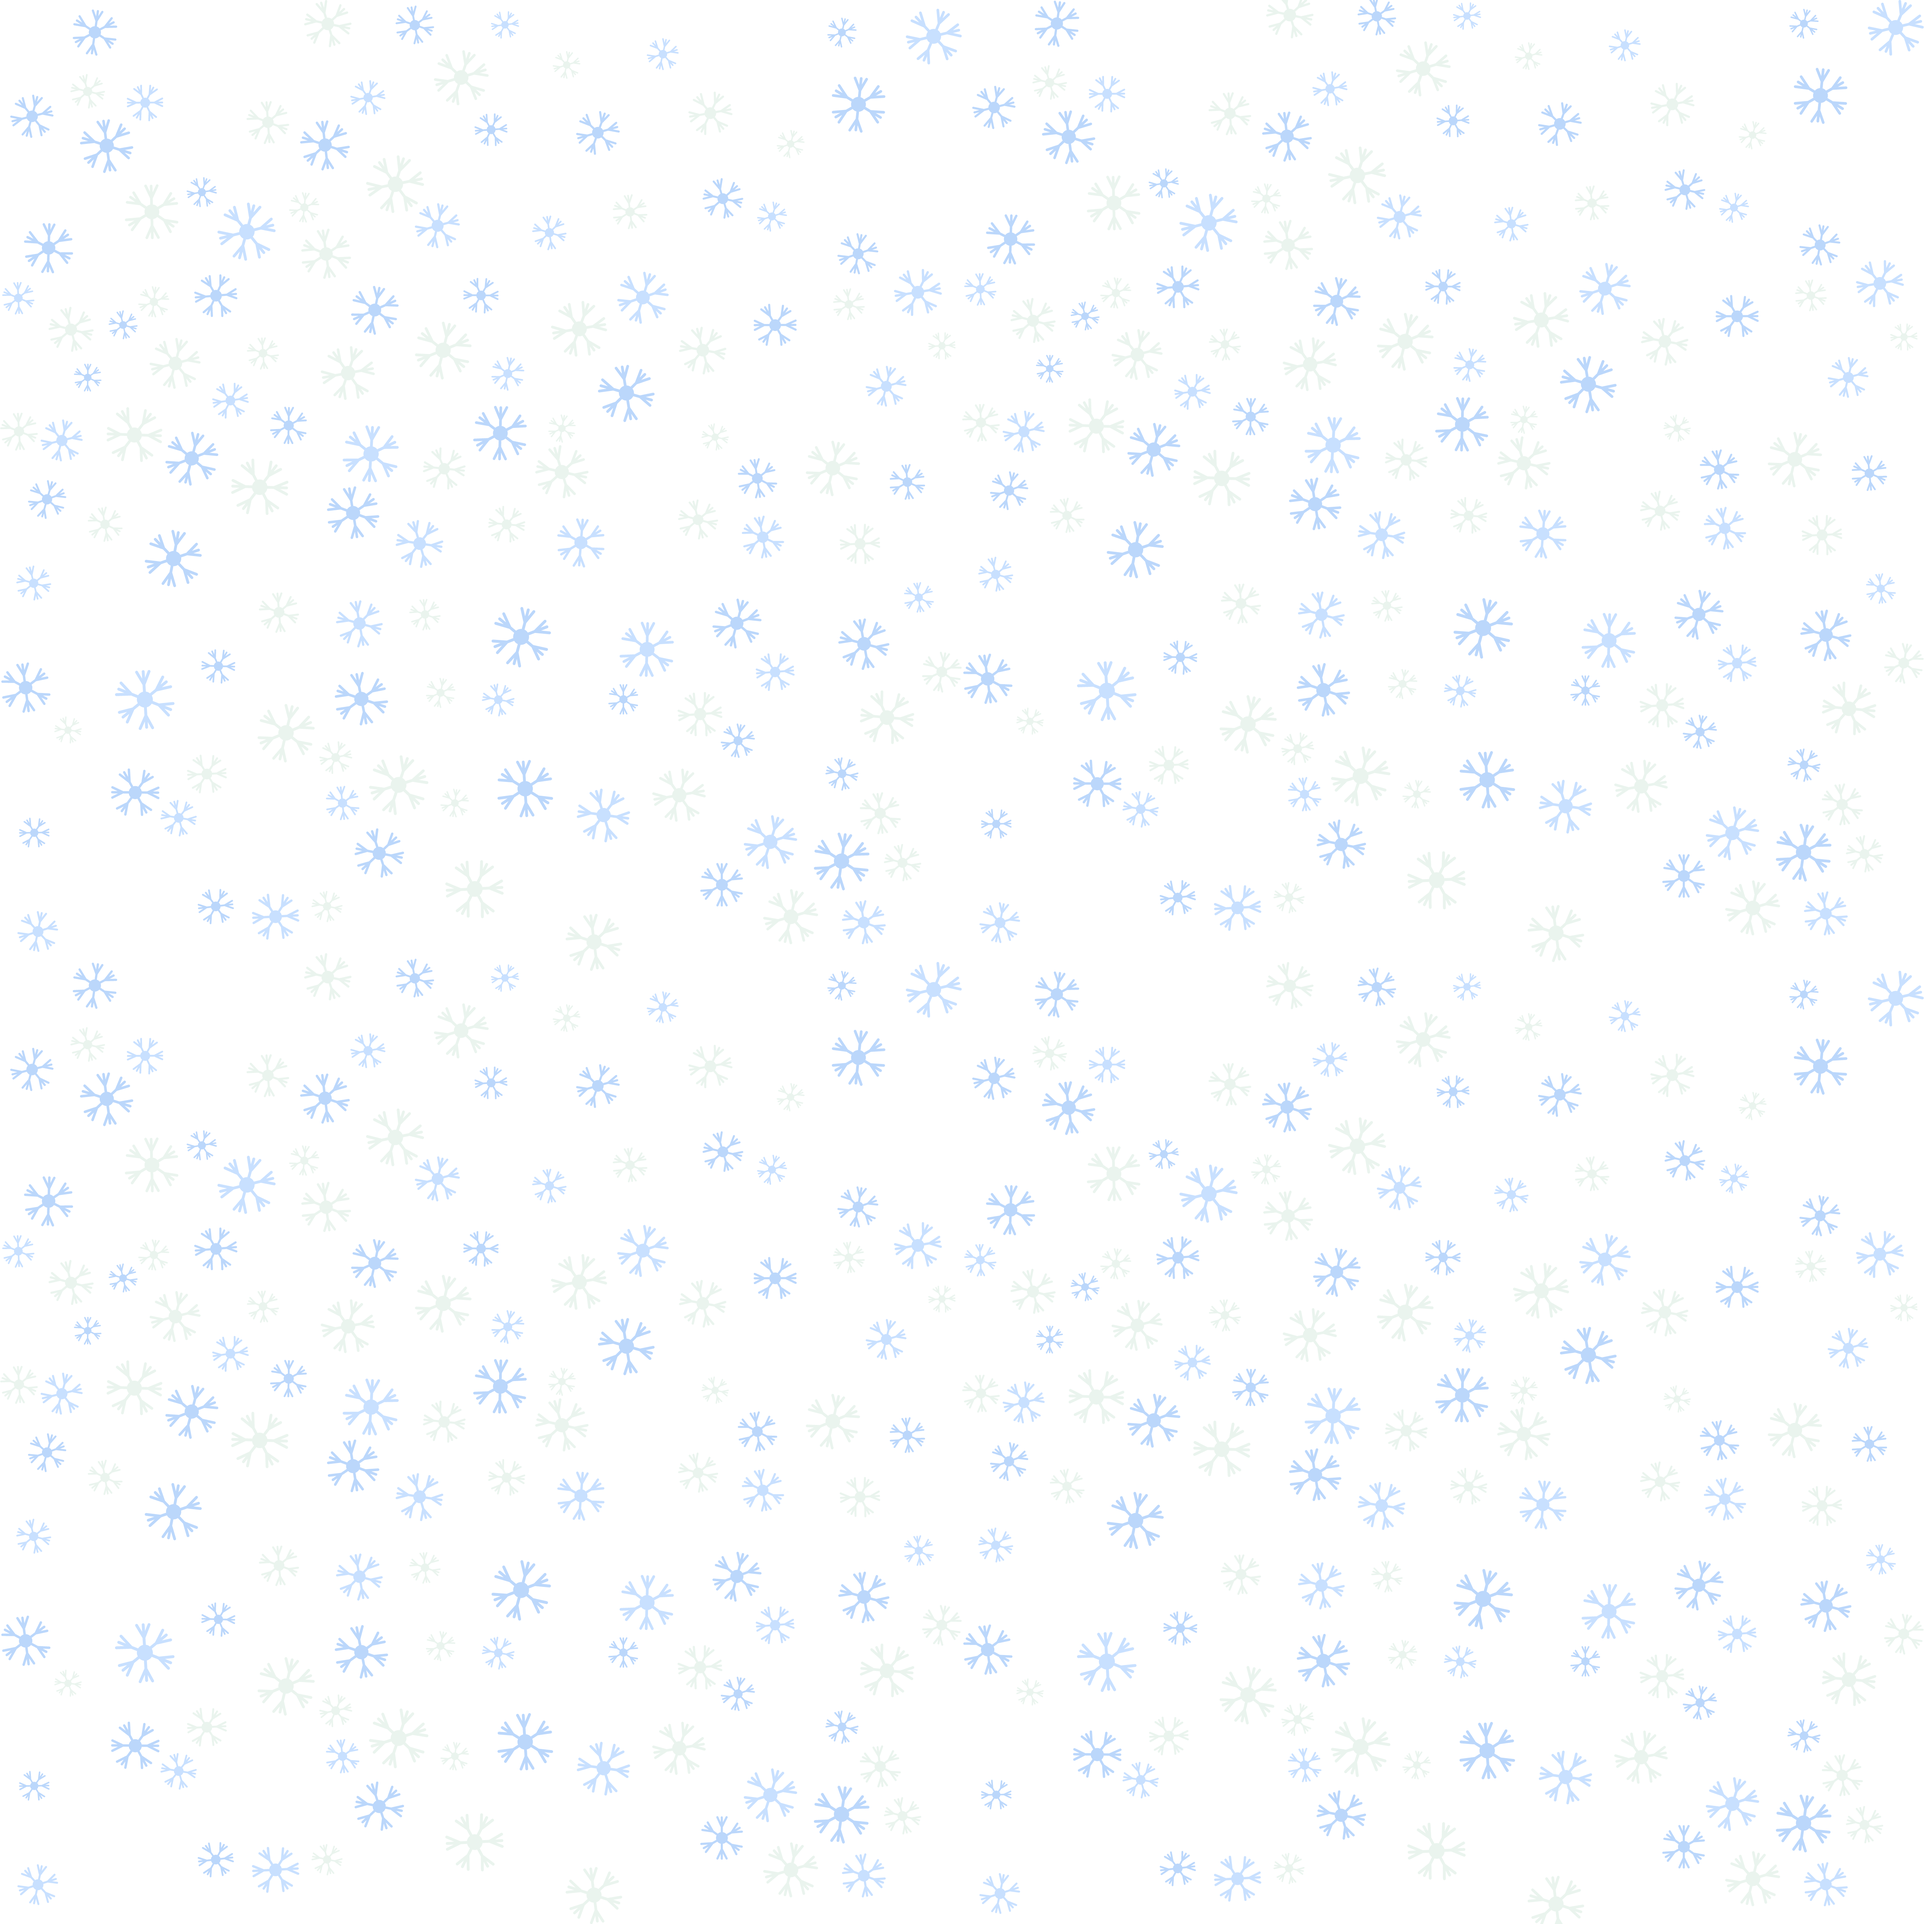
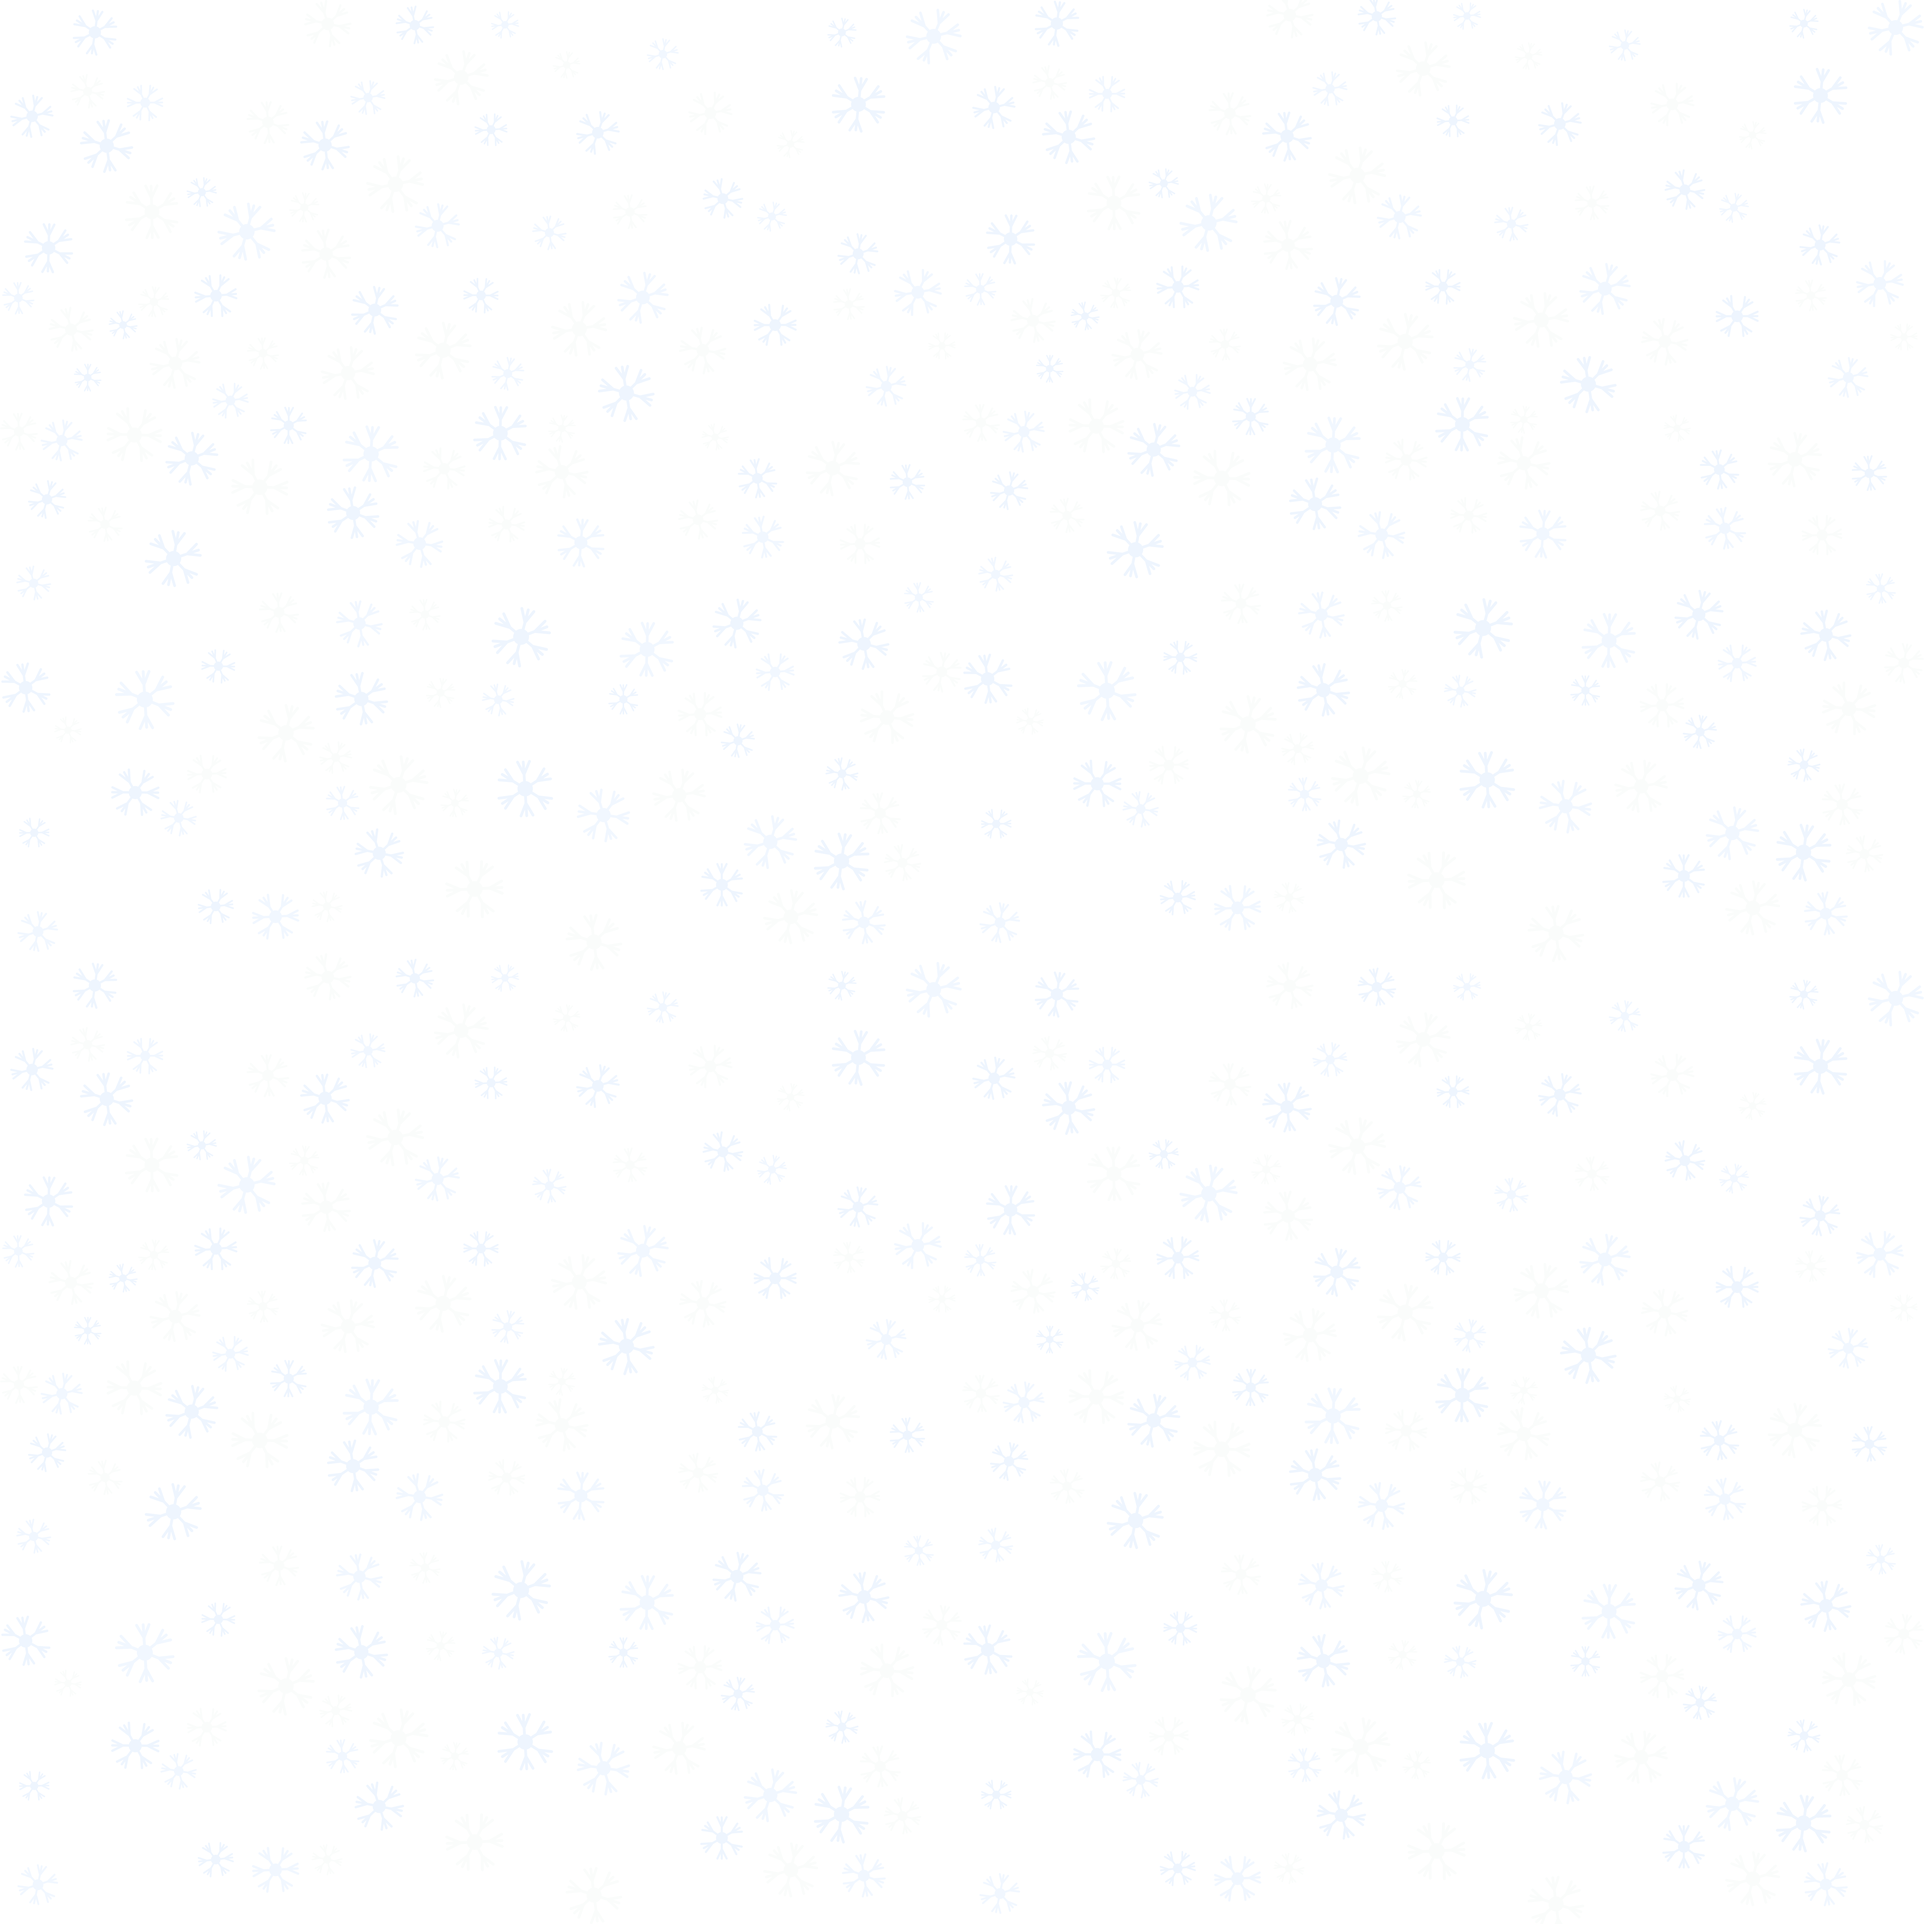
WIP

diff --git a/packages/client/src/components/Lobby.tsx b/packages/client/src/components/Lobby.tsx
@@ -4,14 +4,12 @@ import {
 } from '@material-ui/core';
 import clsx from 'clsx';
 import { useHistory } from 'react-router-dom';
-import ChatRounded from '@material-ui/icons/ChatRounded';
 import socket from '../services/socket';
 import Chat from './Chat';
 import ArtistList from './ArtistList';
 import RoomName from './RoomName';
 import ActivityCarousel from './ActivityCarousel';
 import { useAppContext } from './AppContextProvider';
-import GameTabs from './GameTabs';
 
 const MAIN_SIZE = 'min(50vw, 78vh)';
 const WRAPPED_MAIN_SIZE = 'min(80vw, 50vh)';
@@ -21,10 +19,18 @@ const useStyles = makeStyles({
     display: 'flex',
     flexDirection: 'column',
     justifyContent: 'center',
+    alignItems: 'center',
+  },
+  content: {
+    display: 'flex',
+    flexDirection: 'column',
+    justifyContent: 'center',
+    alignItems: 'center',
     gap: '1rem',
   },
   roomName: {
     maxWidth: '80vw',
+    alignSelf: 'flex-start',
   },
   panelContainer: {
     display: 'flex',
@@ -50,11 +56,12 @@ const useStyles = makeStyles({
     padding: '1rem',
     overflowX: 'auto',
   },
-  gameTabs: {
+  chat: {
     height: MAIN_SIZE,
     width: '20rem',
+    padding: '1rem',
   },
-  wrappedGameTabs: {
+  wrappedChat: {
     width: WRAPPED_MAIN_SIZE,
     height: '15rem',
   },
@@ -100,24 +107,25 @@ const Lobby: React.FC<LobbyProps> = ({ className, ...rest }) => {
 
   return (
     <Box className={clsx(classes.root, className)} {...rest}>
-      <RoomName className={classes.roomName} />
-      <Box className={clsx(classes.panelContainer, shouldWrap && classes.wrappedPanelContainer)}>
-        <Box className={clsx(classes.main, shouldWrap && classes.wrappedMain)}>
-          <ArtistList className={classes.artistList} component={Paper} />
-          <Paper className={classes.activityContentContainer}>
-            <ActivityCarousel className={classes.activityCarousel} />
-            {state.isHost && (
-              <Button color="primary" variant="contained" onClick={handlePlay}>
-                Play
-              </Button>
-            )}
-          </Paper>
+      <Box className={classes.content}>
+        <RoomName className={classes.roomName} />
+        <Box className={clsx(classes.panelContainer, shouldWrap && classes.wrappedPanelContainer)}>
+          <Box className={clsx(classes.main, shouldWrap && classes.wrappedMain)}>
+            <ArtistList className={classes.artistList} component={Paper} />
+            <Paper className={classes.activityContentContainer}>
+              <ActivityCarousel className={classes.activityCarousel} />
+              {state.isHost && (
+                <Button color="primary" variant="contained" onClick={handlePlay}>
+                  Play
+                </Button>
+              )}
+            </Paper>
+          </Box>
+          <Chat
+            className={clsx(classes.chat, shouldWrap && classes.wrappedChat)}
+            component={Paper}
+          />
         </Box>
-        <GameTabs
-          className={clsx(classes.gameTabs, shouldWrap && classes.wrappedGameTabs)}
-          component={Paper}
-          items={[{ label: 'Chat', icon: ChatRounded, content: Chat }]}
-        />
       </Box>
     </Box>
   );

diff --git a/packages/client/src/components/Home.tsx b/packages/client/src/components/Home.tsx
@@ -1,9 +1,6 @@
 import React from 'react';
 import {
-  Box,
-  makeStyles,
-  BoxProps,
-  Paper,
+  Box, makeStyles, BoxProps, Paper, useMediaQuery,
 } from '@material-ui/core';
 import clsx from 'clsx';
 import Logo from '../assets/logo.svg';
@@ -13,22 +10,48 @@ import Login from './Login';
 
 const useStyles = makeStyles({
   root: {
+    flex: 1,
     display: 'flex',
     flexDirection: 'row',
     justifyContent: 'center',
-    alignItems: 'center',
-    gap: '1rem',
-  },
-  main: {
-    display: 'flex',
-    flexDirection: 'column',
-    justifyContent: 'stretch',
-    alignItems: 'center',
+    alignItems: 'stretch',
     gap: '1rem',
   },
   login: {
     width: '20rem',
     padding: '2rem',
+  },
+  logo: {
+    width: '100%',
+  },
+  logoContainer: {
+    flex: 1,
+    display: 'flex',
+    flexDirection: 'column',
+    justifyContent: 'center',
+    alignItems: 'center',
+  },
+  content: {
+    display: 'flex',
+    flexDirection: 'column',
+    justifyContent: 'center',
+    alignItems: 'center',
+  },
+  art: {
+    flex: 1,
+    display: 'flex',
+    flexDirection: 'row',
+    justifyContent: 'center',
+    alignItems: 'center',
+  },
+  character: {
+    width: 'min(20vw, 40vh)',
+  },
+  hidden: {
+    display: 'none',
+  },
+  spacer: {
+    flex: 1,
   },
 });
 
@@ -36,15 +59,23 @@ export type HomeProps = BoxProps;
 
 const Home: React.FC<HomeProps> = ({ className, ...rest }) => {
   const classes = useStyles();
+  const shouldWrap = useMediaQuery('(max-aspect-ratio: 1/1)');
 
   return (
     <Box className={clsx(classes.root, className)} {...rest}>
-      <img src={Yeti} alt="Yeti" />
-      <Box className={classes.main}>
-        <img src={Logo} alt="Logo" />
-        <Login className={classes.login} component={Paper} />
+      <Box className={clsx(classes.art, shouldWrap && classes.hidden)}>
+        <img className={classes.character} src={Yeti} alt="yeti" />
       </Box>
-      <img src={Tree} alt="Tree" />
+      <Box className={classes.content}>
+        <Box className={classes.logoContainer}>
+          <img className={classes.logo} src={Logo} alt="logo" />
+        </Box>
+        <Login className={classes.login} component={Paper} />
+        <Box className={classes.spacer} />
+      </Box>
+      <Box className={clsx(classes.art, shouldWrap && classes.hidden)}>
+        <img className={classes.character} src={Tree} alt="tree" />
+      </Box>
     </Box>
   );
 };

diff --git a/packages/client/src/themes/playful.ts b/packages/client/src/themes/playful.ts
@@ -1,8 +1,56 @@
 import { createTheme, responsiveFontSizes } from '@material-ui/core';
+import { Shadows } from '@material-ui/core/styles/shadows';
 
 const playful = responsiveFontSizes(
   createTheme({
-
+    palette: {
+      primary: {
+        main: '#1e88e5',
+      },
+      secondary: {
+        main: '#43a047',
+      },
+      error: {
+        main: '#e53935',
+      },
+    },
+    shape: {
+      borderRadius: 12,
+    },
+    typography: {
+      fontFamily: 'Varela Round',
+      button: {
+        fontWeight: 'bold',
+      },
+    },
+    shadows: Array(25).fill('none') as Shadows,
+    overrides: {
+      MuiPaper: {
+        root: {
+          outline: '0.2rem solid #eeeeee',
+        },
+      },
+      MuiButton: {
+        containedPrimary: {
+          boxShadow: '0 0.3rem #1565c0',
+          '&:hover': {
+            boxShadow: '0 0.2rem #0d47a1',
+          },
+          '&:focus': {
+            boxShadow: '0 0.2rem #1565c0',
+          },
+        },
+        containedSecondary: {
+          boxShadow: '0 0.3rem #2e7d32',
+          '&:hover': {
+            boxShadow: '0 0.2rem #1b5e20',
+          },
+          '&:focus': {
+            boxShadow: '0 0.2rem #2e7d32',
+          },
+        },
+      },
+    },
   }),
 );
 

diff --git a/packages/client/src/components/GameTabs.tsx b/packages/client/src/components/GameTabs.tsx
@@ -12,7 +12,7 @@ const useStyles = makeStyles((theme) => ({
     display: 'flex',
     flexDirection: 'row',
     justifyContent: 'space-between',
-    borderBottom: `0.1rem solid ${theme.palette.divider}`,
+    borderBottom: '0.2rem solid #eeeeee',
   },
   tab: {
     flex: 1,
@@ -21,8 +21,8 @@ const useStyles = makeStyles((theme) => ({
     flexDirection: 'row',
     justifyContent: 'center',
     alignItems: 'center',
-    borderBottom: '0.15rem solid transparent',
-    marginBottom: '-0.12rem',
+    borderBottom: '0.2rem solid transparent',
+    marginBottom: '-0.2rem',
   },
   active: {
     borderBottomColor: theme.palette.primary.main,
@@ -32,11 +32,11 @@ const useStyles = makeStyles((theme) => ({
     flexDirection: 'column',
     justifyContent: 'stretch',
     flex: 1,
-    padding: '1rem',
     minHeight: '0',
   },
   content: {
     flex: 1,
+    padding: '1rem',
     overflowY: 'auto',
   },
   hidden: {

diff --git a/packages/client/src/components/App.tsx b/packages/client/src/components/App.tsx
@@ -7,17 +7,18 @@ import Game from './Game';
 import Lobby from './Lobby';
 import socket from '../services/socket';
 import { useAppContext } from './AppContextProvider';
-// import BackgroundImage from '../assets/snowflakes.png';
+import BackgroundImage from '../assets/snowflakes.png';
 
 const useStyles = makeStyles({
   root: {
     height: '100vh',
     display: 'flex',
+    flexDirection: 'column',
     justifyContent: 'center',
-    alignItems: 'center',
-    // backgroundImage: `url(${BackgroundImage})`,
-    // backgroundRepeat: 'repeat',
-    // backgroundSize: '100rem',
+    alignItems: 'stretch',
+    backgroundImage: `url(${BackgroundImage})`,
+    backgroundRepeat: 'repeat',
+    backgroundSize: '100rem',
   },
 });
 

diff --git a/packages/client/src/components/RoomName.tsx b/packages/client/src/components/RoomName.tsx
@@ -18,6 +18,9 @@ const useStyles = makeStyles({
     alignItems: 'center',
     gap: '1rem',
   },
+  name: {
+    fontWeight: 'bold',
+  },
 });
 
 export type RoomNameProps = BoxProps;
@@ -34,7 +37,7 @@ const RoomName: React.FC<RoomNameProps> = ({ className, ...rest }) => {
 
   return (
     <Box className={clsx(classes.root, className)} {...rest}>
-      <Typography noWrap variant="h2">{state.room}</Typography>
+      <Typography noWrap variant="h2" className={classes.name}>{state.room}</Typography>
       <IconButton size="medium" onClick={handleRoomCopy}>
         {copied ? <CheckRounded /> : <FileCopyRounded />}
       </IconButton>

diff --git a/packages/client/src/components/Rules.tsx b/packages/client/src/components/Rules.tsx
@@ -11,6 +11,9 @@ const useStyles = makeStyles({
     justifyContent: 'flex-start',
     gap: '1rem',
   },
+  header: {
+    fontWeight: 'bold',
+  },
 });
 
 export type RulesProps = BoxProps;
@@ -19,7 +22,7 @@ const Rules: React.FC<BoxProps> = ({ className, ...rest }) => {
   const classes = useStyles();
   return (
     <Box className={clsx(classes.root, className)} {...rest}>
-      <Typography variant="h5" color="textPrimary">
+      <Typography variant="h5" color="textPrimary" className={classes.header}>
         Welcome to ArtFair!
       </Typography>
       <Typography variant="body1" color="textSecondary">

diff --git a/packages/client/src/index.html b/packages/client/src/index.html
@@ -7,6 +7,9 @@
   <meta name="viewport" content="width=device-width, initial-scale=1.0">
   <meta name="description" content="an online multiplayer collaborative drawing experience" />
   <link rel="icon" href="assets/favicon.ico" />
+  <link rel="preconnect" href="https://fonts.googleapis.com">
+  <link rel="preconnect" href="https://fonts.gstatic.com" crossorigin>
+  <link href="https://fonts.googleapis.com/css2?family=Varela+Round&display=swap" rel="stylesheet">
   <title>ArtFair</title>
 </head>
 

diff --git a/packages/client/src/components/Login.tsx b/packages/client/src/components/Login.tsx
@@ -150,7 +150,7 @@ const Login: React.FC<LoginProps> = ({ className, ...rest }) => {
         onClick={handleJoinRoomAttempt}
         disabled={textFieldsAreEmpty}
         variant="contained"
-        color="primary"
+        color="secondary"
         size="large"
       >
         Join Room

diff --git a/packages/client/src/components/ChatLine.tsx b/packages/client/src/components/ChatLine.tsx
@@ -18,7 +18,7 @@ const useStyles = makeStyles({
     display: 'inline',
   },
   announcement: {
-    opacity: 0.8,
+    opacity: 0.4,
     fontWeight: 'lighter',
     fontStyle: 'italic',
   },

diff --git a/packages/client/src/components/Game.tsx b/packages/client/src/components/Game.tsx
@@ -60,7 +60,7 @@ const useStyles = makeStyles({
   wrappedGameTabs: {
     width: WRAPPED_CANVAS_SIZE,
     height: '15rem',
-    alignSelf: 'flex-start',
+    alignSelf: 'auto',
   },
 });
 

diff --git a/packages/client/src/components/ActivityCarouselItem.tsx b/packages/client/src/components/ActivityCarouselItem.tsx
@@ -23,6 +23,7 @@ const useStyles = makeStyles({
   },
   name: {
     padding: '0.5rem 0 0.5rem 0',
+    fontWeight: 'bold',
   },
 });
 
